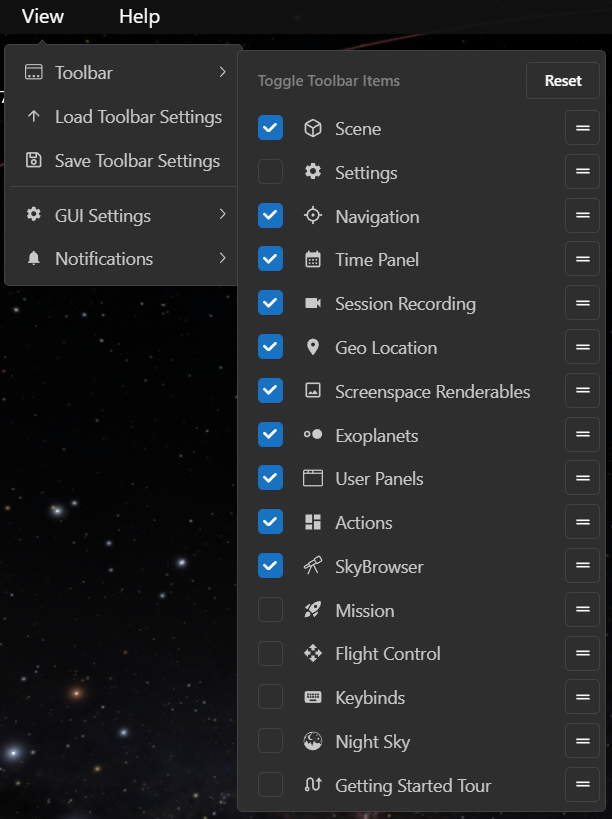
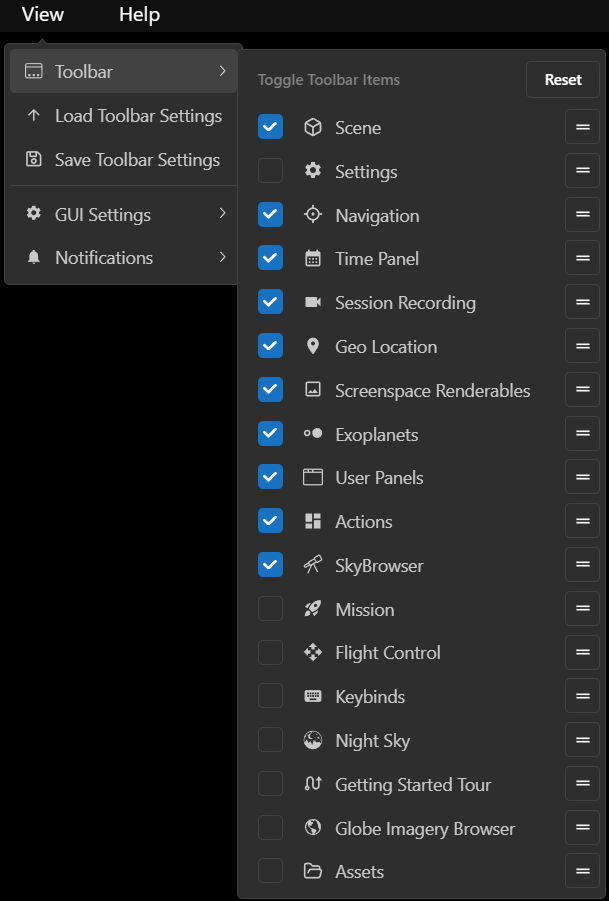
Altered the organization of the toolbar panel listing.

diff --git a/using-openspace/toolbar/index.md b/using-openspace/toolbar/index.md
@@ -7,76 +7,61 @@ The Toolbar appears at the bottom of the OpenSpace window and gives you quick ac
 :::{note}
 The toolbar above shows all the possible panel options, set via the Top Bar's View menu. When you start OpenSpace, the default Toolbar is abbreviated:
 ![Toolbar Panels Default](/using-openspace/toolbar/toolbar_default.png)
+
+Add other panels using the {menuselection}`View --> Toolbar` Menu.
 :::
 
 
 
 ## Toolbar Panels
-<style>
-    .column_container {
-        display: flex;
-        flex-flow: row wrap;
-    }
-    .column_container > * {
-        margin: 1rem 2rem;
-    }
-</style>
-<div class="column_container">
+
+:::{list-table}
+:widths: 15 25 60
+:header-rows: 0
+:class: toolbar-table
+
+*   - ![Scene Panel Button](/using-openspace/toolbar/scene/toolbar_button_scene.png)
+    - ### [Scene Panel](/using-openspace/toolbar/scene/index)
+    - A hierarchial listing of all the data sets in your OpenSpace session.
+*   - ![Navigation Panel Button](/using-openspace/toolbar/navigation/toolbar_button_navigation.png)
+    - ### [Navigation Panel](/using-openspace/toolbar/navigation/index)
+    - Target and navigate to objects.
+*   - ![Time Panel Button](/using-openspace/toolbar/time/toolbar_button_time_cropped.png)
+    - ### [Time Panel](/using-openspace/toolbar/time/index)
+    - Change the date and time, and alter the rate of time.
+*   - ![Action Panel Button](/using-openspace/toolbar/actions/toolbar_button_actions.png)
+    - ### [Actions Panel](/using-openspace/toolbar/actions/index)
+    - A library of buttons, or marcos, that perform one or many OpenSpace tasks.
+*   - ![GeoLocation Panel Button](/using-openspace/toolbar/geolocation/toolbar_button_geolocation.png)
+    - ### [GeoLocation Panel](/using-openspace/toolbar/geolocation/index)
+    - Locate places on Earth, navigate to them, and save them as scenes.
+*   - ![SkyBrowser Panel Button](/using-openspace/toolbar/skybrowser/toolbar_button_skybrowser.png)
+    - ### [SkyBrowser Panel](/using-openspace/toolbar/skybrowser/index)
+    -  A tool that interactively connects OpenSpace to night sky imagery, including all-sky images and images from space telescopes.
+*   - ![Exoplanet Systems Panel Button](/using-openspace/toolbar/exoplanet-systems/toolbar_button_exoplanets.png)
+    - ### [Exoplanet Systems Panel](/using-openspace/toolbar/exoplanet-systems/index)
+    - Visualize the planets and habitable zones in exoplanetary systems.
+*   - ![Night Sky Panel Button](/using-openspace/toolbar/night-sky/toolbar_button_nightsky.png)
+    - ### [Night Sky Panel](/using-openspace/toolbar/night-sky/index)
+    - Night sky simulator with tools to understand the motions of the sun, moon, planets, and stars throughout the course of the day and year.
+*   - ![Record Panel Button](/using-openspace/toolbar/record/toolbar_button_recording.png)
+    - ### [Record Panel](/using-openspace/toolbar/record/index)
+    - Record a session's flightpath and playback or render the flight.
+*   - ![Screenspace Renderables Panel Button](/using-openspace/toolbar/screenspace-renderables/toolbar_button_screenspace_renderables.png)
+    - ### [Screenspace Renderables Panel](/using-openspace/toolbar/screenspace-renderables/index)
+    - Add images, video, or webpages that exists as a slide overlay in OpenSpace,
+*   - ![Keybinds Panel Button](/using-openspace/toolbar/keybinds/toolbar_button_keybinds.png)
+    - ### [Keybinds Panel](/using-openspace/toolbar/keybinds/index)
+    - Shows all the active keyboard bindings for the currently loaded profile.
+*   - ![User Panels Button](/using-openspace/toolbar/user-panels/toolbar_button_user_panels.png)
+    - ### [User Panels](/using-openspace/toolbar/user-panels/index)
+    - Custom panels that are developed by users which allow custom functionality within OpenSpace. 
+*   - ![Tour Panel Button](/using-openspace/toolbar/tour-panel/toolbar_button_tour.png)
+    - ### [Tour Panel](/using-openspace/toolbar/tour-panel/index)
+    - Displays an interactive, getting started tour of OpenSpace.
+:::
 
 
-{.heading-toc}
-### [Scene Panel](/using-openspace/toolbar/scene/index)
-![Scene Panel Button](/using-openspace/toolbar/scene/toolbar_button_scene.png)
-
-{.heading-toc}
-### [Navigation Panel](/using-openspace/toolbar/navigation/index)
-![Navigation Panel Button](/using-openspace/toolbar/navigation/toolbar_button_navigation.png)
-
-{.heading-toc}
-### [Time Panel](/using-openspace/toolbar/time/index)
-![Time Panel Button](/using-openspace/toolbar/time/toolbar_button_time.png){h=40px}
-
-{.heading-toc}
-### [Actions Panel](/using-openspace/toolbar/actions/index)
-![Action Panel Button](/using-openspace/toolbar/actions/toolbar_button_actions.png)
-
-{.heading-toc}
-### [GeoLocation Panel](/using-openspace/toolbar/geolocation/index)
-![GeoLocation Panel Button](/using-openspace/toolbar/geolocation/toolbar_button_geolocation.png)
-
-{.heading-toc}
-### [Night Sky Panel](/using-openspace/toolbar/night-sky/index)
-![Night Sky Panel Button](/using-openspace/toolbar/night-sky/toolbar_button_nightsky.png)
-
-{.heading-toc}
-### [SkyBrowser Panel](/using-openspace/toolbar/skybrowser/index)
-![SkyBrowser Panel Button](/using-openspace/toolbar/skybrowser/toolbar_button_skybrowser.png)
-
-{.heading-toc}
-### [Exoplanet Systems Panel](/using-openspace/toolbar/exoplanet-systems/index)
-![Exoplanet Systems Panel Button](/using-openspace/toolbar/exoplanet-systems/toolbar_button_exoplanets.png)
-
-{.heading-toc}
-### [Screenspace Renderables Panel](/using-openspace/toolbar/screenspace-renderables/index)
-![Screenspace Renderables Panel Button](/using-openspace/toolbar/screenspace-renderables/toolbar_button_screenspace_renderables.png)
-
-{.heading-toc}
-### [Keybinds Panel](/using-openspace/toolbar/keybinds/index)
-![Keybinds Panel Button](/using-openspace/toolbar/keybinds/toolbar_button_keybinds.png)
-
-{.heading-toc}
-### [Record Panel](/using-openspace/toolbar/record/index)
-![Record Panel Button](/using-openspace/toolbar/record/toolbar_button_recording.png)
-
-{.heading-toc}
-### [User Panels](/using-openspace/toolbar/user-panels/index)
-![User Panels Button](/using-openspace/toolbar/user-panels/toolbar_button_user_panels.png)
-
-{.heading-toc}
-### [Tour Panel](/using-openspace/toolbar/tour-panel/index)
-![Tour Panel Button](/using-openspace/toolbar/tour-panel/toolbar_button_tour.png)
-
-</div>
 
 
 ## Customizing the Toolbar

diff --git a/using-openspace/index.md b/using-openspace/index.md
@@ -6,7 +6,7 @@ For this chapter, we need to understand a bit more what goes on under the hood w
 
 {.heading-toc}
 ## [The Toolbar](/using-openspace/toolbar/index)
-[![Toolbar Panels](/using-openspace/toolbar/toolbar_full.png)](/using-openspace/toolbar/index)
+[![Toolbar Panels](/using-openspace/toolbar/toolbar_default.png)](/using-openspace/toolbar/index)
 
 {.heading-toc}
 ## [Profile Editor](/using-openspace/launcher/profile-editor/index)